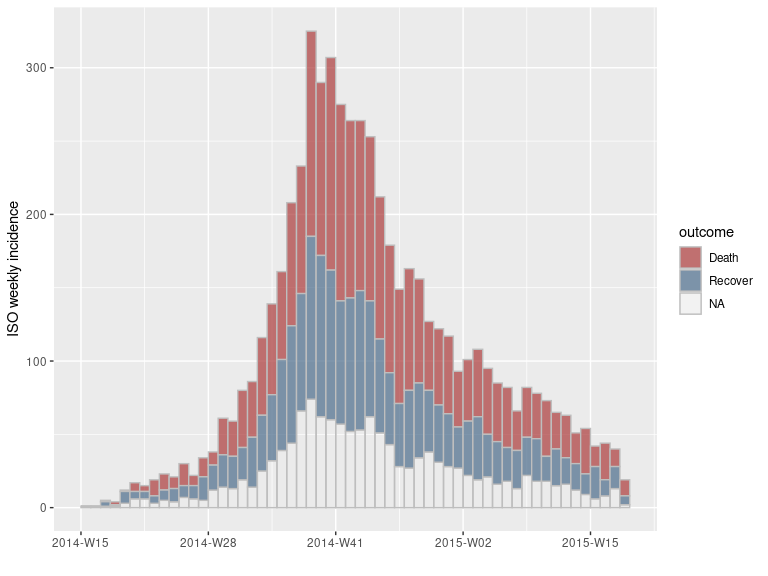
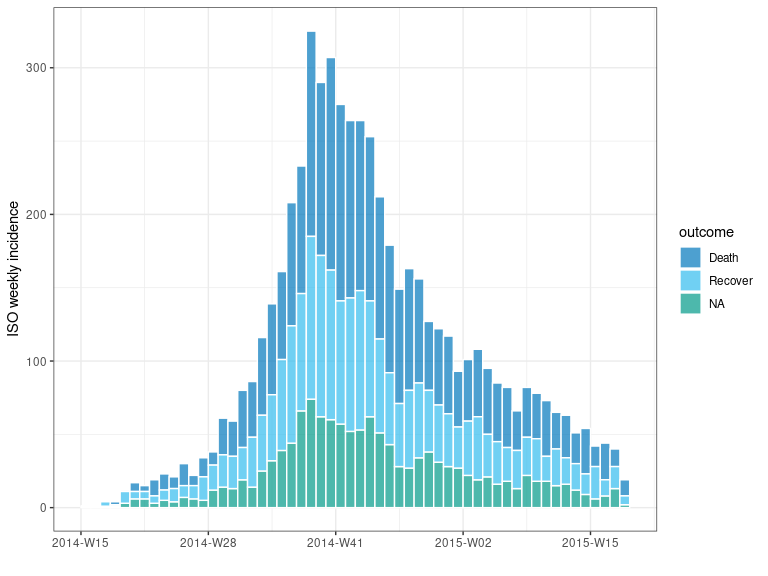
changes to plot themes, palette and NA handling

Changed region(s): [[0.0625, 0.0625, 0.8438, 0.9375], [0.875, 0.4062, 0.9375, 0.5625]]

diff --git a/README.md b/README.md
@@ -52,8 +52,8 @@ The main features of the package include:
   - Compatible with [dplyr](https://dplyr.tidyverse.org/) for data
     manipulation.
 
-  - **`regroup()`**: regroup incidence from different groups into one global
-    incidence time series.
+  - **`regroup()`**: regroup incidence from different groups into one
+    global incidence time series.
 
   - **`cumulate()`**: computes cumulative incidence over time from an
     `incidence` object.
@@ -193,7 +193,9 @@ summary(i_7_sex)
 #>   <fct>  <int>
 #> 1 f       2934
 #> 2 m       2895
-plot(i_7_sex, stack = TRUE, border = "grey")
+plot(i_7_sex, stack = TRUE)
+#> The number of colors (1) did not match the number of groups (2).
+#> Using `col_pal` instead.
 ```
 
 ![](figs/genderstack-1.png)<!-- -->
@@ -328,13 +330,15 @@ summary(i_7_outcome)
 #> 1 Death    2564
 #> 2 Recover  1963
 #> 3 <NA>     1302
-plot(i_7_outcome, stack = TRUE, border = "grey")
+plot(i_7_outcome, stack = TRUE)
+#> The number of colors (1) did not match the number of groups (3).
+#> Using `col_pal` instead.
 ```
 
 ![](figs/i7outcome-1.png)<!-- -->
 
 ``` r
-facet_plot(i_7_outcome, border = "grey", n_breaks = 3)
+facet_plot(i_7_outcome, n_breaks = 3)
 ```
 
 ![](figs/i7outcome-2.png)<!-- -->
@@ -360,7 +364,9 @@ i_7_outcome_cum
 #>  9 2014-04-21 2014-W17 2014-W17 Recover     3
 #> 10 2014-04-28 2014-W18 2014-W18 <NA>        4
 #> # … with 158 more rows
-plot(i_7_outcome_cum, border = "grey")
+plot(i_7_outcome_cum, border = NA)
+#> The number of colors (1) did not match the number of groups (3).
+#> Using `col_pal` instead.
 ```
 
 ![](figs/i7outcome_cum-1.png)<!-- -->
